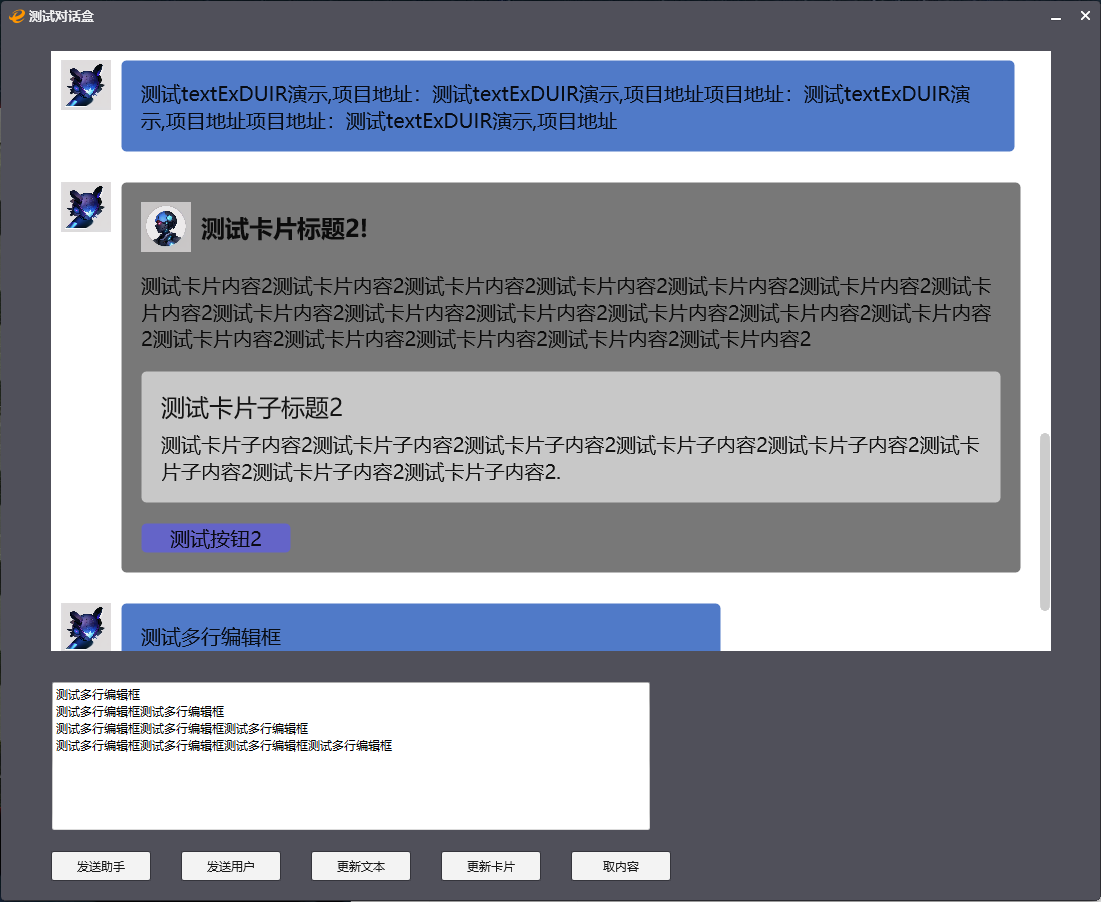
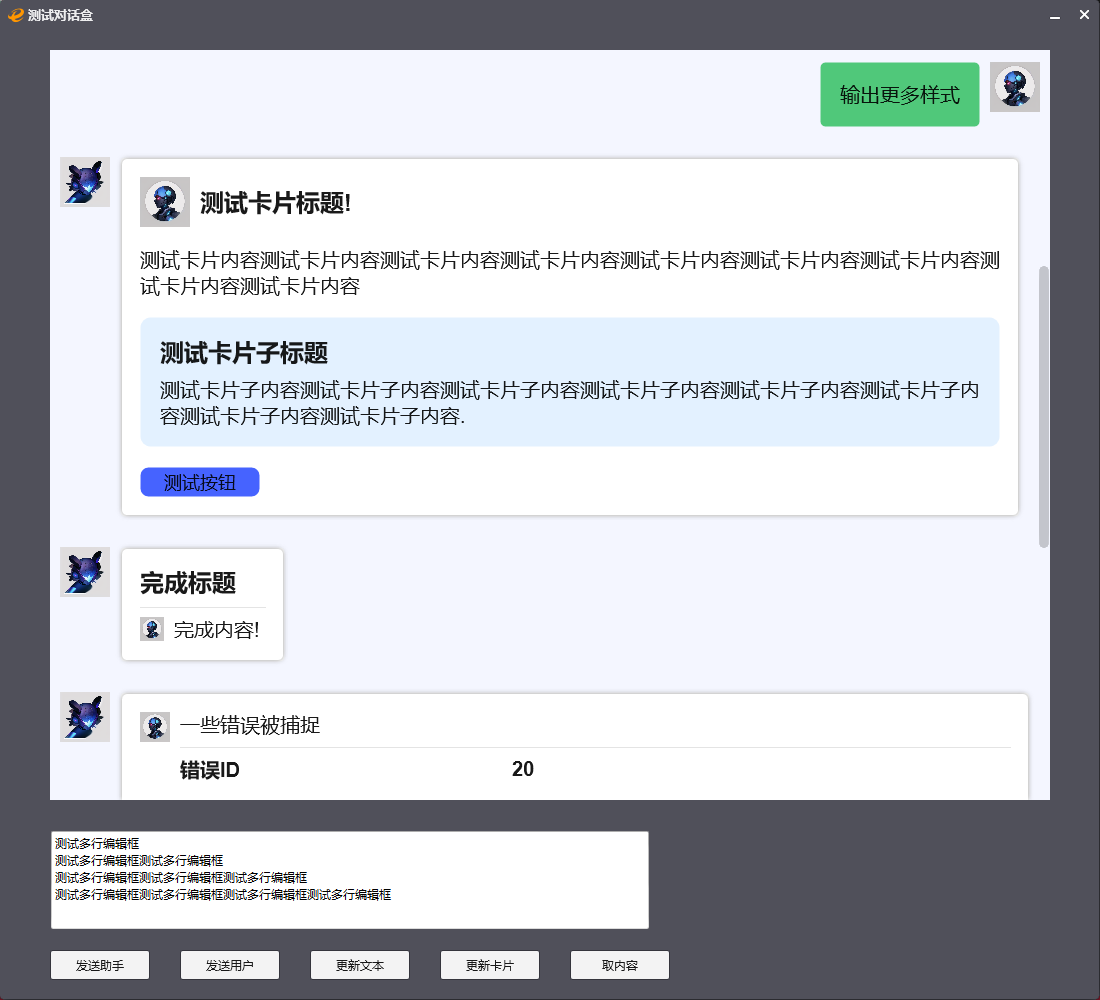
update

diff --git a/msvc/demo/test_chatbox.cpp b/msvc/demo/test_chatbox.cpp
@@ -91,7 +91,7 @@ LRESULT CALLBACK OnChatButtonEvent(HEXOBJ hObj, INT nID, INT nCode, WPARAM wPara
 
 void test_chatbox(HWND hWnd)
 {
-    HWND hWnd_chatbox = Ex_WndCreate(hWnd, L"Ex_DirectUI", L"测试对话盒", 0, 0, 1100, 900, 0, 0);
+    HWND hWnd_chatbox = Ex_WndCreate(hWnd, L"Ex_DirectUI", L"测试对话盒", 0, 0, 1100, 1000, 0, 0);
     hExDui_chatbox = Ex_DUIBindWindowEx(hWnd_chatbox, 0,
         WINDOW_STYLE_NOINHERITBKG | WINDOW_STYLE_BUTTON_CLOSE |
         WINDOW_STYLE_BUTTON_MIN | WINDOW_STYLE_MOVEABLE |
@@ -101,24 +101,24 @@ void test_chatbox(HWND hWnd)
     Ex_DUISetLong(hExDui_chatbox, ENGINE_LONG_CRBKG, ExARGB(80, 80, 90, 255));
     auto hEdit = Ex_ObjCreateEx(OBJECT_STYLE_EX_FOCUSABLE, L"edit",
         L"测试多行编辑框\r\n测试多行编辑框测试多行编辑框\r\n测试多行编辑框测试多行编辑框测试多行编辑框\r\n测试多行编辑框测试多行编辑框测试多行编辑框测试多行编辑框",
-        OBJECT_STYLE_VISIBLE | OBJECT_STYLE_VSCROLL | EDIT_STYLE_NEWLINE, 50, 680, 600, 150, hExDui_chatbox,
+        OBJECT_STYLE_VISIBLE | OBJECT_STYLE_VSCROLL | EDIT_STYLE_NEWLINE, 50, 830, 600, 100, hExDui_chatbox,
         100, DT_LEFT, 0, 0, NULL);
-    auto hButton1 = Ex_ObjCreateEx(-1, L"button", L"发送助手", -1, 50, 850, 100, 30,
+    auto hButton1 = Ex_ObjCreateEx(-1, L"button", L"发送助手", -1, 50, 950, 100, 30,
         hExDui_chatbox, 101, DT_VCENTER | DT_CENTER, 0, 0, NULL);
-    auto hButton2 = Ex_ObjCreateEx(-1, L"button", L"发送用户", -1, 180, 850, 100, 30,
+    auto hButton2 = Ex_ObjCreateEx(-1, L"button", L"发送用户", -1, 180, 950, 100, 30,
         hExDui_chatbox, 102, DT_VCENTER | DT_CENTER, 0, 0, NULL);
-    auto hButton3 = Ex_ObjCreateEx(-1, L"button", L"更新文本", -1, 310, 850, 100, 30,
+    auto hButton3 = Ex_ObjCreateEx(-1, L"button", L"更新文本", -1, 310, 950, 100, 30,
         hExDui_chatbox, 103, DT_VCENTER | DT_CENTER, 0, 0, NULL);
-    auto hButton4 = Ex_ObjCreateEx(-1, L"button", L"更新卡片", -1, 440, 850, 100, 30,
+    auto hButton4 = Ex_ObjCreateEx(-1, L"button", L"更新卡片", -1, 440, 950, 100, 30,
         hExDui_chatbox, 104, DT_VCENTER | DT_CENTER, 0, 0, NULL);
-    auto hButton5 = Ex_ObjCreateEx(-1, L"button", L"取内容", -1, 570, 850, 100, 30,
+    auto hButton5 = Ex_ObjCreateEx(-1, L"button", L"取内容", -1, 570, 950, 100, 30,
         hExDui_chatbox, 105, DT_VCENTER | DT_CENTER, 0, 0, NULL);
     Ex_ObjHandleEvent(hButton1, NM_CLICK, OnChatButtonEvent);
     Ex_ObjHandleEvent(hButton2, NM_CLICK, OnChatButtonEvent);
     Ex_ObjHandleEvent(hButton3, NM_CLICK, OnChatButtonEvent);
     Ex_ObjHandleEvent(hButton4, NM_CLICK, OnChatButtonEvent);
     Ex_ObjHandleEvent(hButton5, NM_CLICK, OnChatButtonEvent);
-    auto hChatBox = Ex_ObjCreateEx(-1, L"ChatBox", NULL, -1, 50, 50, 1000, 600, hExDui_chatbox, 200, -1, 0, 0, NULL);
+    auto hChatBox = Ex_ObjCreateEx(-1, L"ChatBox", NULL, -1, 50, 50, 1000, 750, hExDui_chatbox, 200, -1, 0, 0, NULL);
     Ex_ObjHandleEvent(hChatBox, CHATBOX_EVENT_CLICKBUTTON, OnChatBoxEvent);
     HEXIMAGE hImgUser, hImgAssistant;
     HEXIMAGE hImgUserSmall, hImgAssistantSmall;
@@ -135,12 +135,10 @@ void test_chatbox(HWND hWnd)
     Ex_ObjSendMessage(hChatBox, CHATBOX_MESSAGE_SETIMAGE_ASSISTANT, 0, (size_t)hImgAssistantSmall);
 
     EX_CHATBOX_ITEMINFO_SUBITEM ptr;
-
-    ptr.Role = CHATBOX_ITEMROLE_ASSISTANT;
     ptr.Type = CHATBOX_ITEMTYPE_TEXT;
     EX_CHATBOX_ITEMINFO_TEXT itemData;
-    LPCWSTR test1 = LR"(测试textExDUIR演示,项目地址：测试textExDUIR演示,项目地址项目地址：测试textExDUIR演示,项目地址项目地址：测试textExDUIR演示,项目地址)";
-    LPCWSTR test = LR"(以下是一个用C#编写的计算当前月天数的方法：
+    LPCWSTR user = LR"(C#编写的计算当前月天数的方法)";
+    LPCWSTR assistant = LR"(以下是一个用C#编写的计算当前月天数的方法：
     using System;
 
     public class MonthDaysCalculator
@@ -192,19 +190,21 @@ void test_chatbox(HWND hWnd)
 
     这个方法会正确处理所有月份，包括不同年份的二月天数差异。 
     )";
-    itemData.Text = test1;
+    itemData.Text = user;
 
     ptr.Data = &itemData;
     ptr.Role = CHATBOX_ITEMROLE_USER;
     Ex_ObjSendMessage(hChatBox, CHATBOX_MESSAGE_ADDITEM, 0, (size_t)&ptr);
-    itemData.Text = test;
-
-    Ex_ObjSendMessage(hChatBox, CHATBOX_MESSAGE_ADDITEM, 0, (size_t)&ptr);
-
-    itemData.Text = test1;
+ 
+    itemData.Text = assistant;
     ptr.Role = CHATBOX_ITEMROLE_ASSISTANT;
     Ex_ObjSendMessage(hChatBox, CHATBOX_MESSAGE_ADDITEM, 0, (size_t)&ptr);
 
+    itemData.Text = L"输出更多样式";
+    ptr.Role = CHATBOX_ITEMROLE_USER;
+    Ex_ObjSendMessage(hChatBox, CHATBOX_MESSAGE_ADDITEM, 0, (size_t)&ptr);
+
+    ptr.Role = CHATBOX_ITEMROLE_ASSISTANT;
     HEXIMAGE hImgCard, hImgCardSmall;
     _img_createfromfile(L"res/user.png", &hImgCard);
     _img_scale(hImgCard, Ex_Scale(50), Ex_Scale(50), &hImgCardSmall);

diff --git a/include/ExDUIR_Struct.h b/include/ExDUIR_Struct.h
@@ -1713,11 +1713,11 @@
 #pragma region chatbox message constant
 // 消息_对话盒_添加表项 添加行到尾部 wParam:项目类型CHATBOX_ITEMTYPE_  lParam: EX_CHATBOX_ITEMINFO_SUBITEM 指针
 #define CHATBOX_MESSAGE_ADDITEM 10010
-// 消息_对话盒_更新表项 wParam:表项索引 lParam: EX_CHATBOX_ITEMINFO_SUBITEM 指针
+// 消息_对话盒_更新表项 注意CHATBOX_ITEMTYPE_一致才能更新 wParam:表项索引 从0开始 lParam: EX_CHATBOX_ITEMINFO_SUBITEM 指针
 #define CHATBOX_MESSAGE_UPDATEITEM 10011
-// 消息_对话盒_取表项类型 wParam:表项索引，返回CHATBOX_ITEMTYPE_ ,失败返回-1
+// 消息_对话盒_取表项类型 wParam:表项索引 从0开始，返回CHATBOX_ITEMTYPE_ ,失败返回-1
 #define CHATBOX_MESSAGE_GETITEMTYPE 10012
-// 消息_对话盒_取表项数据 wParam:表项索引，返回CEX_CHATBOX_ITEMINFO_SUBITEM 指针,失败返回-1
+// 消息_对话盒_取表项数据 wParam:表项索引 从0开始，返回CEX_CHATBOX_ITEMINFO_SUBITEM 指针,失败返回-1
 #define CHATBOX_MESSAGE_GETITEMDATA 10013
 // 消息_对话盒_取表项总数,失败返回-1
 #define CHATBOX_MESSAGE_GETITEMCOUNT 10014
